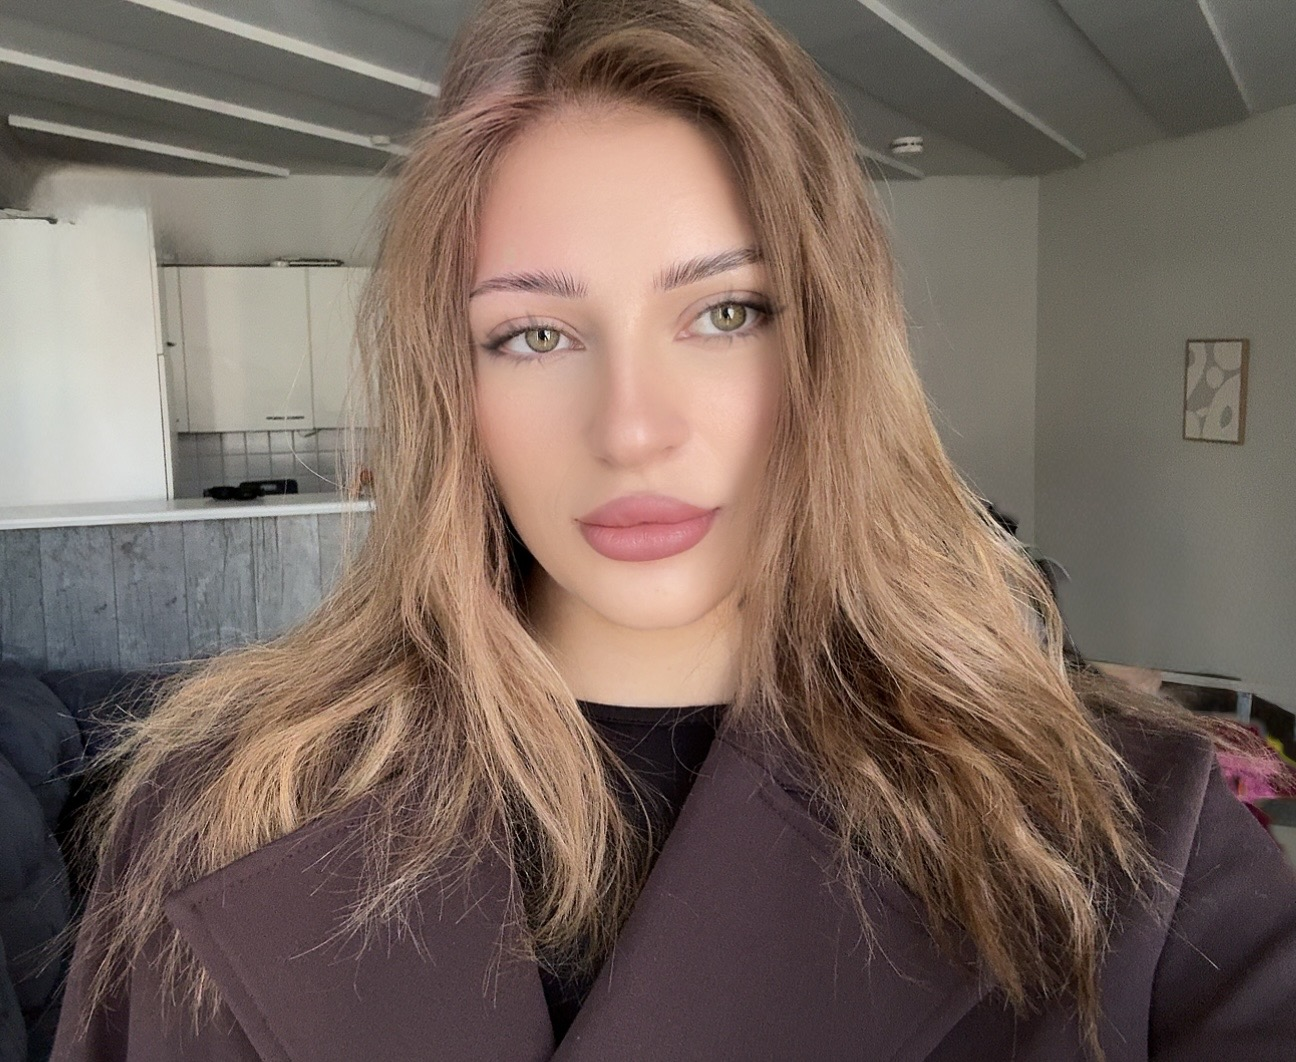
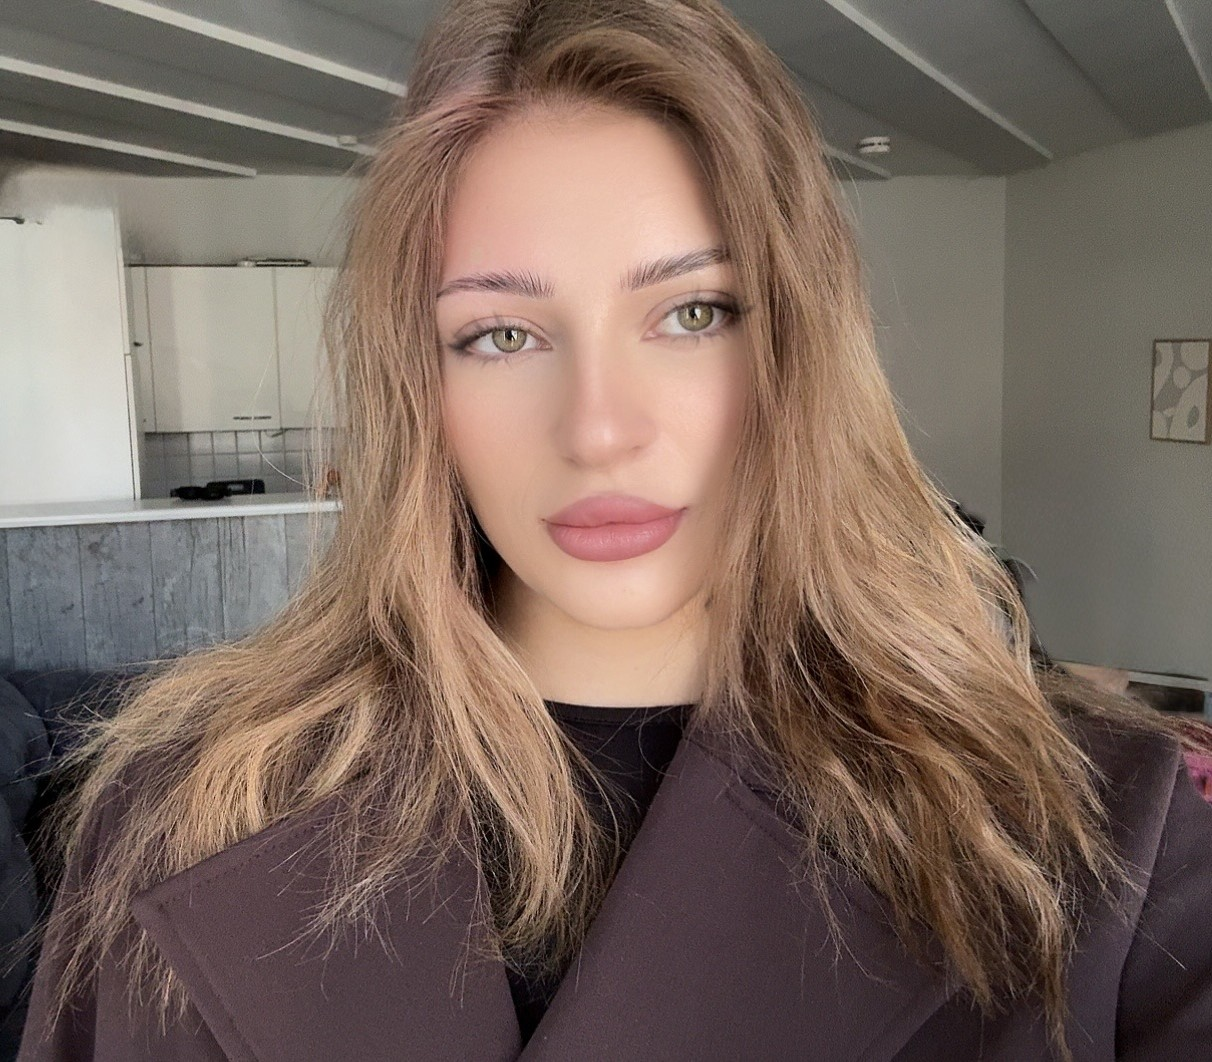
fix: images in our cases

diff --git a/index.html b/index.html
@@ -815,12 +815,12 @@
           <div class="cases-track flex flex-col md:flex-row gap-6 md:gap-8" style="width: 100%;">
           <!-- Case 1 -->
           <article class="case-card group relative grid grid-cols-1 md:grid-cols-12 p-8 md:p-10">
-            <div class="md:col-span-5 relative min-h-[280px] md:min-h-[360px] overflow-hidden rounded-lg bg-black/50">
-              <div class="absolute inset-0 bg-gradient-to-br from-pink-500/20 via-transparent to-pink-600/10"></div>
-              <div class="absolute inset-0 flex items-center justify-center">
-                <img src="assets/images/IMG_0892.jpg" alt="Case 1" class="w-full h-full object-cover">
+            <div class="md:col-span-5 flex items-center justify-center p-4">
+              <div class="relative inline-block p-3 rounded-lg bg-black/50 border border-pink-border">
+                <div class="absolute inset-0 bg-gradient-to-br from-pink-500/20 via-transparent to-pink-600/10 rounded-lg"></div>
+                <img src="assets/images/IMG_0892.jpg" alt="Case 1" class="relative z-10 max-w-[320px] h-auto object-contain rounded shadow-lg">
+                <div class="absolute bottom-2 left-2 text-xs tracking-widest uppercase text-white/60 z-20"></div>
               </div>
-              <div class="absolute bottom-4 left-4 text-xs tracking-widest uppercase text-white/60"></div>
             </div>
             <div class="md:col-span-7 p-8 md:p-12 flex flex-col justify-center">
               <h3 class="font-display text-3xl md:text-4xl font-700 tracking-tight">Настя</h3>
@@ -860,23 +860,23 @@
                 <svg class="w-3.5 h-3.5" fill="none" viewBox="0 0 24 24" stroke="currentColor"><path stroke-linecap="round" stroke-linejoin="round" stroke-width="2" d="M14 5l7 7m0 0l-7 7m7-7H3"/></svg>
               </a>
             </div>
-            <div class="md:col-span-5 relative min-h-[280px] md:min-h-[360px] overflow-hidden rounded-lg bg-black/50 order-1 md:order-2">
-              <div class="absolute inset-0 bg-gradient-to-bl from-pink-600/15 via-transparent to-pink-500/10"></div>
-              <div class="absolute inset-0 flex items-center justify-center">
-                <img src="assets/images/IMG_5581.JPG" alt="Case 2" class="w-full h-full object-cover">
+            <div class="md:col-span-5 flex items-center justify-center p-4 order-1 md:order-2">
+              <div class="relative inline-block p-3 rounded-lg bg-black/50 border border-pink-border">
+                <div class="absolute inset-0 bg-gradient-to-bl from-pink-600/15 via-transparent to-pink-500/10 rounded-lg"></div>
+                <img src="assets/images/IMG_5581.JPG" alt="Case 2" class="relative z-10 max-w-[320px] h-auto object-contain rounded shadow-lg">
+                <div class="absolute bottom-2 right-2 text-xs tracking-widest uppercase text-white/60 z-20"></div>
               </div>
-              <div class="absolute bottom-4 right-4 text-xs tracking-widest uppercase text-white/60"></div>
             </div>
           </article>
 
           <!-- Case 3 -->
           <article class="case-card group relative grid grid-cols-1 md:grid-cols-12 border border-white/20/10 overflow-hidden bg-glass-700/60">
-            <div class="md:col-span-5 relative min-h-[280px] md:min-h-[360px] overflow-hidden bg-black/50">
-              <div class="absolute inset-0 bg-gradient-to-tr from-accent/15 via-transparent to-paper/5"></div>
-              <div class="absolute inset-0 flex items-center justify-center">
-                <img src="assets/images/IMG_8816.JPG" alt="Case 3" class="w-full h-full object-cover">
+            <div class="md:col-span-5 flex items-center justify-center p-4">
+              <div class="relative inline-block p-3 rounded-lg bg-black/50 border border-pink-border">
+                <div class="absolute inset-0 bg-gradient-to-tr from-accent/15 via-transparent to-paper/5 rounded-lg"></div>
+                <img src="assets/images/IMG_8816.JPG" alt="Case 3" class="relative z-10 max-w-[320px] h-auto object-contain rounded shadow-lg">
+                <div class="absolute bottom-2 left-2 text-xs tracking-widest uppercase text-white/60 z-20"></div>
               </div>
-              <div class="absolute bottom-4 left-4 text-xs tracking-widest uppercase text-white/60"></div>
             </div>
             <div class="md:col-span-7 p-8 md:p-12 flex flex-col justify-center">
               <h3 class="font-display text-3xl md:text-4xl font-700 tracking-tight">Діана</h3>
@@ -916,23 +916,23 @@
                 <svg class="w-3.5 h-3.5" fill="none" viewBox="0 0 24 24" stroke="currentColor"><path stroke-linecap="round" stroke-linejoin="round" stroke-width="2" d="M14 5l7 7m0 0l-7 7m7-7H3"/></svg>
               </a>
             </div>
-            <div class="md:col-span-5 relative min-h-[280px] md:min-h-[360px] overflow-hidden rounded-lg bg-black/50 order-1 md:order-2">
-              <div class="absolute inset-0 bg-gradient-to-bl from-pink-600/15 via-transparent to-pink-500/10"></div>
-              <div class="absolute inset-0 flex items-center justify-center">
-                <img src="assets/images/IMG_5588.PNG" alt="Case 4" class="w-full h-full object-cover">
+            <div class="md:col-span-5 flex items-center justify-center p-4 order-1 md:order-2">
+              <div class="relative inline-block p-3 rounded-lg bg-black/50 border border-pink-border">
+                <div class="absolute inset-0 bg-gradient-to-bl from-pink-600/15 via-transparent to-pink-500/10 rounded-lg"></div>
+                <img src="assets/images/IMG_5588.PNG" alt="Case 4" class="relative z-10 max-w-[320px] h-auto object-contain rounded shadow-lg">
+                <div class="absolute bottom-2 right-2 text-xs tracking-widest uppercase text-white/60 z-20"></div>
               </div>
-              <div class="absolute bottom-4 right-4 text-xs tracking-widest uppercase text-white/60"></div>
             </div>
           </article>
 
           <!-- Case 5 -->
           <article class="case-card group relative grid grid-cols-1 md:grid-cols-12 p-8 md:p-10">
-            <div class="md:col-span-5 relative min-h-[280px] md:min-h-[360px] overflow-hidden rounded-lg bg-black/50">
-              <div class="absolute inset-0 bg-gradient-to-br from-pink-500/20 via-transparent to-pink-600/10"></div>
-              <div class="absolute inset-0 flex items-center justify-center">
-                <img src="assets/images/IMG_5777.JPG" alt="Case 5" class="w-full h-full object-cover">
+            <div class="md:col-span-5 flex items-center justify-center p-4">
+              <div class="relative inline-block p-3 rounded-lg bg-black/50 border border-pink-border">
+                <div class="absolute inset-0 bg-gradient-to-br from-pink-500/20 via-transparent to-pink-600/10 rounded-lg"></div>
+                <img src="assets/images/IMG_5777.JPG" alt="Case 5" class="relative z-10 max-w-[320px] h-auto object-contain rounded shadow-lg">
+                <div class="absolute bottom-2 left-2 text-xs tracking-widest uppercase text-white/60 z-20"></div>
               </div>
-              <div class="absolute bottom-4 left-4 text-xs tracking-widest uppercase text-white/60"></div>
             </div>
             <div class="md:col-span-7 p-8 md:p-12 flex flex-col justify-center">
               <h3 class="font-display text-3xl md:text-4xl font-700 tracking-tight">Ніка</h3>
@@ -972,12 +972,12 @@
                 <svg class="w-3.5 h-3.5" fill="none" viewBox="0 0 24 24" stroke="currentColor"><path stroke-linecap="round" stroke-linejoin="round" stroke-width="2" d="M14 5l7 7m0 0l-7 7m7-7H3"/></svg>
               </a>
             </div>
-            <div class="md:col-span-5 relative min-h-[280px] md:min-h-[360px] overflow-hidden rounded-lg bg-black/50 order-1 md:order-2">
-              <div class="absolute inset-0 bg-gradient-to-bl from-pink-600/15 via-transparent to-pink-500/10"></div>
-              <div class="absolute inset-0 flex items-center justify-center">
-                <img src="assets/images/IMG_7473.JPG" alt="Case 6" class="w-full h-full object-cover">
+            <div class="md:col-span-5 flex items-center justify-center p-4 order-1 md:order-2">
+              <div class="relative inline-block p-3 rounded-lg bg-black/50 border border-pink-border">
+                <div class="absolute inset-0 bg-gradient-to-bl from-pink-600/15 via-transparent to-pink-500/10 rounded-lg"></div>
+                <img src="assets/images/IMG_7473.JPG" alt="Case 6" class="relative z-10 max-w-[320px] h-auto object-contain rounded shadow-lg">
+                <div class="absolute bottom-2 right-2 text-xs tracking-widest uppercase text-white/60 z-20"></div>
               </div>
-              <div class="absolute bottom-4 right-4 text-xs tracking-widest uppercase text-white/60"></div>
             </div>
           </article>
           </div>

diff --git a/assets/css/main.css b/assets/css/main.css
@@ -788,6 +788,68 @@ nav a {
   transform: translateY(-4px);
 }
 
+/* Case card image container for full-size images */
+/* Border moved to inner container via inline styles */
+
+/* Responsive image display for case cards */
+.case-card img {
+  transition: transform 0.4s var(--ease-out-expo);
+}
+
+.case-card:hover img {
+  transform: scale(1.02);
+}
+
+/* Desktop-specific case image styling */
+@media (min-width: 768px) {
+  .case-card [class*="col-span-5"] {
+    min-height: auto !important;
+    display: flex;
+    align-items: center;
+    justify-content: center;
+    padding: 1.5rem;
+  }
+
+  .case-card [class*="col-span-5"] > div {
+    width: fit-content;
+    height: fit-content;
+    padding: 0.75rem;
+    border-radius: 0.75rem;
+    position: relative;
+    display: inline-block;
+    /* Border handled by inline styles in HTML */
+  }
+
+  .case-card [class*="col-span-5"] img {
+    max-width: 320px;
+    width: auto;
+    height: auto;
+    max-height: 400px;
+    object-fit: contain;
+    border-radius: 0.5rem;
+    box-shadow: 0 4px 20px rgba(0, 0, 0, 0.3);
+    display: block;
+  }
+}
+
+/* Mobile adjustments for case images */
+@media (max-width: 767px) {
+  .case-card [class*="col-span-5"] {
+    min-height: 250px !important;
+    padding: 1rem;
+  }
+
+  .case-card [class*="col-span-5"] > div {
+    width: 100%;
+    max-width: 100%;
+  }
+
+  .case-card [class*="col-span-5"] img {
+    max-width: 100%;
+    height: auto;
+  }
+}
+
 /* ========== Portfolio cards ========== */
 .portfolio-card {
   background: var(--glass-700);
